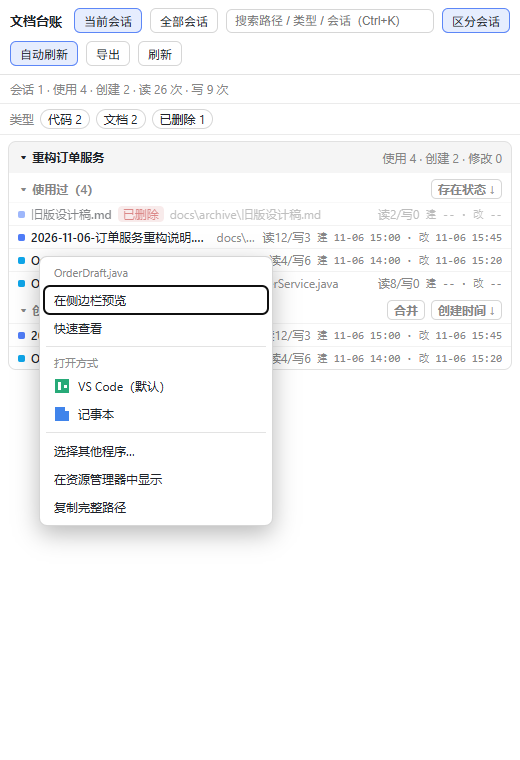
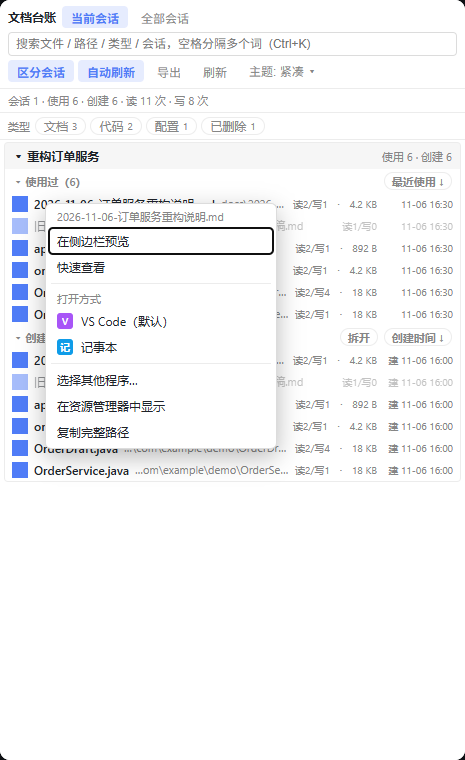
chore(release): v0.5.0 — 重拍全部截图，版本号与发布说明
v0.4.0 之后的十六个提交里有四件事用户能直接看到：四套可切换主题、真实文件图标、
行内文件大小，以及一次「整个面板在深色主题下是坏的」的修复。

截图：14 张全部重拍（docs/{en,zh}-*.png）。旧的还是 11-06 / 11-10 的界面，
没有文件大小、图标还是色块、主题还是旧版——docs 与实际已经不符。
这次是逐张拍的真实渲染：概览、当前会话、类型筛选、排序菜单、快速查看弹窗、
行右键菜单（含打开方式）、会话卡片右键菜单。两语言各一套。

发布说明：docs/release-v0.5.0.md 与 .en.md。英文版正文不能含中日韩字符（检查器要求），
所以语言切换链接用英文写 "Read this in Chinese"。release-notes-check 覆盖 3 个版本、
13 项断言全过。

版本：package.json 0.5.0，README 两版的安装引用全部指向 #v0.5.0 / "0.5.0"，
CHANGELOG 的 [Unreleased] 落成 [0.5.0] - 2026-11-11。

npm test 128 项；release-notes-check 9 → 13 项（第三个版本）。

diff --git a/docs/release-v0.5.0.en.md b/docs/release-v0.5.0.en.md
@@ -1,0 +1,111 @@
+# v0.5.0 · Themes, real file icons, and file sizes
+
+[Read this in Chinese](release-v0.5.0.md) · **English**
+
+Sixteen commits after v0.4.0, four of them change what you actually see: four switchable themes,
+real file icons, a size on every row — and a fix for "the whole panel is broken in dark mode",
+which is the first item below because it was a failure, not a matter of taste.
+
+## Dark mode was completely broken
+
+The panel referenced three host tokens that **do not exist**:
+
+| Written | Actually declared |
+|---|---|
+| `--dsw-alias-accent` | `--dsw-alias-brand-primary` |
+| `--dsw-alias-border` | `--dsw-alias-border-l1` / `-l2` |
+| `--dsw-alias-label-tertiary` | nothing (only `-primary` / `-secondary`) |
+
+A misspelled `var()` does not fail — it **silently takes the fallback literal**, and every one of
+those literals was a light-mode colour. So in a dark theme the panel had a white background, dark
+grey text, and buttons you could barely find.
+
+Two related fixes: `hoverOff` hardcoded the label to dark grey (moving the pointer away made the
+text vanish on a dark theme), and hover wrote to `element.style` imperatively, so the old theme's
+wash survived a theme switch.
+
+All fourteen tokens are now spelled exactly as the Theme provider declares them, and the semantic
+colours are derived with `color-mix(in oklab, …)`. `theme-check` gained two assertions to keep it
+that way: colours may only name a real token, and the style table may not contain a literal
+hex/rgba value.
+
+## Four themes
+
+The toolbar's **Theme** dropdown offers four looks, ticks the active one, and remembers the choice
+across reloads:
+
+| Theme | Structure |
+|---|---|
+| **Compact** | VS Code density: 22px rows, hairline separators, no decoration (default) |
+| **Airy** | every separator removed; whitespace groups the rows, type grows, weight carries the hierarchy |
+| **Table** | monospace names, zebra stripes, right-aligned tabular numbers, uppercase headings |
+| **Card** | floating panels with a 3px accent rail on each head, shadow and large radii |
+
+These are not tuned by eye. The references were read:
+
+- **shadcn/ui `globals.css`** — one `--radius` expanded into a five-step scale, and every
+  translucent value mixed in `oklab`, so a 6% wash looks equally dense on white and on near-black.
+- **VS Code `explorerviewlet.css`** — dense rows are a fixed 22px with `line-height` equal to the
+  row height, `flex-wrap: nowrap`, `min-width: 0` and ellipsis. **Those four points are why a
+  narrow list stays readable**, not the palette.
+
+## Real file icons, with a three-tier fallback
+
+The 7×7 colour block in front of each row is now a real icon, resolved A → B → C:
+
+- **A** — DSH's own `FileTypeIcon`, reached through the platform seed table with
+  `require("@deepseek-ai/dsh-client-ui-primitives")`; that package is one of the ten modules every
+  client bundle may require by name. **Confirmed on a real session (`tier-A: ok`)**, so the glyph
+  is identical to the one the rest of the DSH UI draws.
+- **B** — the actual Windows association icon, extracted per extension by the host through
+  shell32's `SHGetFileInfo` and cached in `~/.dsh/doc-ledger-fileicons/`. `app.getFileIcon` is
+  unreachable from the plugin process (a plain Node child of Electron), so this is the honest
+  substitute. Verified against IntelliJ's Java icon, the JSON braces, Markdown's M.
+- **C** — a drawn badge with the extension on a per-type tint. Always available, and it sits
+  underneath the tier-B image, so it doubles as the loading placeholder and the 404 fallback —
+  which is why switching tiers never shifts a row.
+
+## File size on every row
+
+The read/write counters now carry `· 4.2 KB`.
+
+The size comes from the host's `statOf()`: it already ran one `statSync` per file to answer
+`exists`, and the same call now returns `size` too, so this adds **no I/O at all**. Size describes
+the disk right now rather than the log, so it is cached on the same 20-second TTL and stays out of
+the ledger cache — a file that grows emits no event, and a cached size would be wrong the moment
+the next write landed. A deleted file shows no size, because there is no honest number to show.
+
+## A diagnostics channel that had never worked
+
+`report()` gated on `window.__DOC_LEDGER_DEBUG__ === true`, and **nothing in the codebase ever set
+that global**. All seventeen call sites returned silently; the host log had not been written since
+11-04, and setting `config.debug: true` changed nothing.
+
+The host now serves `GET /api/config` with `{ debug, maxSessions }` and the client reads it at the
+top of `applyInner`. Because that answer is asynchronous while the most valuable reports (`eval`,
+`apply: enter`, `tab-ok`) are emitted before it arrives, reports queue until it resolves: flushed if
+debug is on, discarded if it is off.
+
+It worked immediately — the log confirmed `apply: tab-ok`, `host-preview:yes`, `session-nav:yes`.
+
+## Also
+
+- **One timestamp per row**, chosen by the section it sits in (used → last-used, modified →
+  updated, created → created). Every section used to print both "created" and "updated", two
+  stamps that are usually minutes apart, and the width pushed rows onto two lines. The long-standing
+  horizontal scrollbar is gone too.
+- **Tests** went from 101 to 128: new `theme-check` (9) and `row-time-check` (6), plus the section
+  decisions extracted from `SessionCard` into eight pure functions (`client-core-check` 43 → 53).
+- **Host refactor**: the 105-line `snapshot()` became `normalizeRecords` / `foldSessions` /
+  `shapePayload` plus an orchestrator.
+
+## Upgrade
+
+```json
+"dsh-doc-ledger": "github:LuoShanHui/dsh-doc-ledger#v0.5.0"
+```
+
+Or npm: `"dsh-doc-ledger": "0.5.0"`.
+
+Reload the page afterwards. The theme choice lives in `localStorage`, so if you picked one before,
+it is kept.

diff --git a/docs/release-v0.5.0.md b/docs/release-v0.5.0.md
@@ -1,0 +1,103 @@
+# v0.5.0 · 主题、真实文件图标、文件大小
+
+[English](release-v0.5.0.en.md) · **中文**
+
+v0.4.0 之后的十六个提交里，有四件用户能直接看到的事：四套可切换的主题、真实文件图标、
+行内文件大小，以及一次「整个面板在深色主题下是坏的」的修复。另外顺手修活了一条
+从未成功工作过的诊断通道。
+
+## 深色模式之前是完全坏的
+
+这一条排在功能前面，因为它不是观感问题，是失效问题。
+
+面板一直引用三个**不存在**的宿主 token：
+
+| 写的 | 实际存在 |
+|---|---|
+| `--dsw-alias-accent` | `--dsw-alias-brand-primary` |
+| `--dsw-alias-border` | `--dsw-alias-border-l1` / `-l2` |
+| `--dsw-alias-label-tertiary` | 不存在（只有 `-primary` / `-secondary`） |
+
+拼错的 `var()` 不会报错，**静默走 fallback 字面量**，而那些字面量全是浅色值。所以深色主题下：
+背景是白的、文字是深灰、按钮几乎看不见。
+
+顺带修掉两处：`hoverOff` 把文字色写死成深灰（深色下鼠标移开文字就消失）；hover 用命令式改
+`element.style`，切换主题后会残留旧颜色。
+
+现在 14 个 token 全部按 Theme provider 的真实名字，语义色从 token 用 `color-mix(in oklab, …)`
+派生。`theme-check` 加了两条断言守着：颜色只能引用真实存在的 token、样式表里禁止写死
+hex/rgba。
+
+## 四套主题
+
+工具栏的「主题」下拉列表可选四套，当前生效的打勾，选择跨刷新记住：
+
+| 主题 | 结构 |
+|---|---|
+| **紧凑** | VS Code 密度：22px 行、发丝分隔线、无装饰（默认） |
+| **留白** | 删除所有分隔线，靠留白分组，字号加大、层级全靠字重 |
+| **表格** | 等宽文件名 + 斑马纹 + 等宽数字右对齐 + 分区标题大写加字距 |
+| **卡片** | 浮起面板 + 卡片头 3px 强调色竖条 + 阴影 + 大圆角 |
+
+这些不是凭感觉调的。参考是读过的两份实现：
+
+- **shadcn/ui `globals.css`**：一个 `--radius` 展开成五档；所有半透明值用 `oklab` 混合——
+  这样 6% 的淡底在白底和近黑底上看起来一样浓。
+- **VS Code `explorerviewlet.css`**：密集行固定 22px 且 `line-height` 等于行高、
+  `flex-wrap: nowrap`、`min-width: 0` + 省略号。**这四点才是一张窄表能读的原因**，不是配色。
+
+## 真实文件图标，三级降级
+
+文件行前的 7×7 色块换成了真实图标，按 A → B → C 取：
+
+- **A** —— DSH 自己的 `FileTypeIcon`。从平台 seed 表经
+  `require("@deepseek-ai/dsh-client-ui-primitives")` 拿到；这个包是每个客户端 bundle
+  都能按名字 require 的十个模块之一。**真机日志已验证 `tier-A: ok`**，所以图标和 DSH
+  界面其余部分完全一致。
+- **B** —— Windows 真实的关联图标，由宿主按扩展名用 shell32 的 `SHGetFileInfo` 提取，
+  缓存在 `~/.dsh/doc-ledger-fileicons/`。插件进程拿不到 `app.getFileIcon`（它跑在
+  Electron 的纯 Node 子进程里），这是等效替代。已在真机取到 IntelliJ 的 Java 图标、
+  JSON 大括号、Markdown 的 M。
+- **C** —— 自绘徽标（扩展名前几位 + 类型色），永远可用，且垫在 B 的图片下面，
+  同时兼任加载占位与 404 兜底——所以切换档位不会让行高跳动。
+
+## 行内文件大小
+
+读写计数后面接 `· 4.2 KB`。
+
+大小来自宿主的 `statOf()`：它原本就为 `exists` 做过一次 `statSync`，现在同一个 stat 顺带
+返回 `size`，所以**没有新增任何 IO**。大小属于「磁盘当前状态」而非日志，因此和 `exists`
+一样按 20 秒 TTL 缓存、不进 ledger 缓存——文件长大不会产生新事件，缓存住的大小一写入就是错的。
+已删除的文件不给大小（没有真实值可报）。
+
+## 顺手修活了一条从未工作的诊断通道
+
+`report()` 以 `window.__DOC_LEDGER_DEBUG__ === true` 为前提，但**整个代码库没有任何地方
+设置这个全局**。结果 17 处 `report()` 全部静默返回，宿主日志从 11-04 起就没再更新过，
+把 `config.debug` 设成 true 也没用。
+
+现在宿主新增 `GET /api/config` 暴露 `{ debug, maxSessions }`，客户端在 `applyInner` 最前面
+读取。因为 config 是异步的，而最有价值的报告（`eval`、`apply: enter`、`tab-ok`）都在响应到达
+之前发出，所以加了 pending 队列：拿到答案后 debug 开就补发、关就丢弃。
+
+修完立刻生效，日志确认了 `apply: tab-ok`、`host-preview:yes`、`session-nav:yes`。
+
+## 其它
+
+- **行内信息减负**：每行只显示**一个**时间戳，由所在分区决定（使用过→最近使用、修改→更新时间、
+  创建→创建时间）。原来无论哪个分区都印「创建 · 修改」两个几乎相同的时刻，还把行挤到两行。
+  同时修掉了底部长期存在的横向滚动条。
+- **测试**：101 → 128 项，新增 `theme-check`（9 项）、`row-time-check`（6 项），
+  并把 `SessionCard` 里的分区决策抽成 8 个纯函数覆盖（`client-core-check` 43 → 53 项）。
+- **宿主重构**：105 行的 `snapshot()` 拆成 `normalizeRecords` / `foldSessions` /
+  `shapePayload` 三个职责加编排。
+
+## 升级
+
+```json
+"dsh-doc-ledger": "github:LuoShanHui/dsh-doc-ledger#v0.5.0"
+```
+
+或 npm：`"dsh-doc-ledger": "0.5.0"`。
+
+升级后刷新页面。主题选择存在 `localStorage`，如果你之前选过某套主题，它会保留。

diff --git a/README.zh.md b/README.zh.md
@@ -44,12 +44,12 @@
 ```jsonc
 // ~/.dsh/profiles/<profile>/package.json
 "dependencies": {
-  "dsh-doc-ledger": "github:LuoShanHui/dsh-doc-ledger#v0.4.0"
+  "dsh-doc-ledger": "github:LuoShanHui/dsh-doc-ledger#v0.5.0"
 }
 ```
 
-1. 加上面这行依赖（`#v0.4.0` 固定版本；想跟最新开发版就写 `github:LuoShanHui/dsh-doc-ledger`）。
-   也发布了 npm 包，可以换成 `"dsh-doc-ledger": "0.4.0"`；
+1. 加上面这行依赖（`#v0.5.0` 固定版本；想跟最新开发版就写 `github:LuoShanHui/dsh-doc-ledger`）。
+   也发布了 npm 包，可以换成 `"dsh-doc-ledger": "0.5.0"`；
 2. 用运行时自带的 pnpm 安装，复用已有 store（完整命令见下文「安装（插件形态）」）；
 3. 在 `cordis.patch.yml` 末尾 insert 一行 `doc-ledger`（同样在那一节），刷新页面 → 右侧栏出现「文档台账」。
 
@@ -90,10 +90,10 @@
 所以不要把包直接 `cp` 进 `node_modules/`：下次启动它会消失。
 
 1. 在 `~/.dsh/profiles/<profile>/package.json` 的 `dependencies` 里加一行 GitHub 托管依赖
-   （pnpm 会直接拉仓库，**不需要先 clone**；`#v0.4.0` 固定版本，省掉 tag 就跟开发版）：
+   （pnpm 会直接拉仓库，**不需要先 clone**；`#v0.5.0` 固定版本，省掉 tag 就跟开发版）：
 
    ```json
-   "dsh-doc-ledger": "github:LuoShanHui/dsh-doc-ledger#v0.4.0"
+   "dsh-doc-ledger": "github:LuoShanHui/dsh-doc-ledger#v0.5.0"
    ```
 
    想改代码或内网环境，就改成指向本地目录：
@@ -106,7 +106,7 @@
    少了 clone 仓库这一步；内网或镜像源上可能还没同步）：
 
    ```json
-   "dsh-doc-ledger": "0.4.0"
+   "dsh-doc-ledger": "0.5.0"
    ```
 
 2. 用运行时自带的 pnpm 安装（`<runtime>` 换成你的运行时目录；**复用已有的 store**，

diff --git a/README.md b/README.md
@@ -46,12 +46,12 @@ Windows only, UI in Chinese and English.
 ```jsonc
 // ~/.dsh/profiles/<profile>/package.json
 "dependencies": {
-  "dsh-doc-ledger": "github:LuoShanHui/dsh-doc-ledger#v0.4.0"
+  "dsh-doc-ledger": "github:LuoShanHui/dsh-doc-ledger#v0.5.0"
 }
 ```
 
-1. Add the dependency line above (`#v0.4.0` pins the version; drop the tag to track the latest commit).
-   It is also published to npm, so `"dsh-doc-ledger": "0.4.0"` works too.
+1. Add the dependency line above (`#v0.5.0` pins the version; drop the tag to track the latest commit).
+   It is also published to npm, so `"dsh-doc-ledger": "0.5.0"` works too.
 2. Install with the pnpm bundled in your DSH runtime, reusing an existing store — the full command is under
    [Installation](#installation-as-a-plugin).
 3. Append one `doc-ledger` row to `cordis.patch.yml` (same section), reload the page, and the **Doc ledger**
@@ -104,10 +104,10 @@ start.
 
 1. Add one GitHub-hosted dependency to the `dependencies` of
    `~/.dsh/profiles/<profile>/package.json` (pnpm clones the repo itself, **no local clone needed**;
-   `#v0.4.0` pins the version, dropping the tag tracks the development head):
+   `#v0.5.0` pins the version, dropping the tag tracks the development head):
 
    ```json
-   "dsh-doc-ledger": "github:LuoShanHui/dsh-doc-ledger#v0.4.0"
+   "dsh-doc-ledger": "github:LuoShanHui/dsh-doc-ledger#v0.5.0"
    ```
 
    To modify the code or work offline, point it at a local directory instead:
@@ -120,7 +120,7 @@ start.
    tag, without cloning — a private mirror may lag behind):
 
    ```json
-   "dsh-doc-ledger": "0.4.0"
+   "dsh-doc-ledger": "0.5.0"
    ```
 
 2. Install with the pnpm bundled in your runtime (`<runtime>` is your runtime directory; **reuse an existing

diff --git a/CHANGELOG.md b/CHANGELOG.md
@@ -5,6 +5,8 @@
 
 ## [Unreleased]
 
+## [0.5.0] - 2026-11-11
+
 ### Added
 
 - **文件图标三级降级 A > B > C**：文件行前的小色块换成真实图标。
